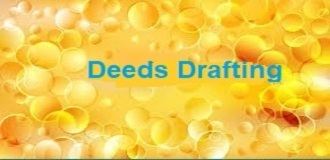
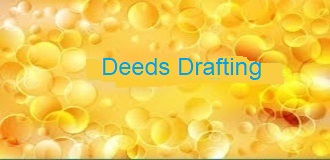
Fine Turning

Changed region(s): [[0.2424, 0.3438, 0.8788, 0.5312]]

diff --git a/Drafting.html b/Drafting.html
@@ -158,16 +158,20 @@
 
   </header>
 
-  <section>
+  <section class="bg-white mt-2 mb-1 me-2 " >
     <div class="container-fluid">
-      <div class="row h3">
-      <div class="col-md-3 fs-5 bg-white text-primary fw-normal">Legal Drafting</div>
-      <div class="col-md-3 fs-5 bg-white text-primary fw-normal">Deeds Drafting</div>
-      <div class="col-md-3 fs-5 bg-white text-primary fw-normal">Legal Documents Drafting</div>
-      <div class="col-md-3 fs-5 bg-white text-primary fw-normal">Legal Agreements <br> Drafting
-      </div>
-      </div>
-  </section>
+      <div class="row">
+            <div class="col-md-3 fs-5 text-primary fw-normal">
+            <img src="./images/Background Images plain with Tex 330x160  (7).jpg" class="" alt="..."></div>
+            <div class="col-md-3 fs-5 text-primary fw-normal">
+            <img src="./images/Background Images plain with Tex 330x160 (2).jpg" class="" alt="..."></div>
+            <div class="col-md-3 fs-5 text-primary fw-normal">
+            <img src="./images/Background Images plain with Tex 330x160 (3).jpg" class="" alt="..."></div>
+            <div class="col-md-3 fs-5 text-primary fw-normal">
+            <img src="./images/Background Images plain with Tex 330x160  (4).jpg" class="" alt="..."></div>
+        </div>
+    </div>
+</section>
 
     
 

diff --git a/About.html b/About.html
@@ -206,16 +206,20 @@
 
   </header>
 
-    <section>
-      <div class="container-fluid ">
-        <div class="row h3">
-            <div class="col-md-3 bg-primary fs-5 text-primary fw-normal">
-            <img src="./images/Background Images plain2 Edited 315x160.jpg" class="height:auto width-auto" alt="..."></div>
-            
+  <section class="bg-white mt-2 mb-1 me-2 " >
+    <div class="container-fluid">
+      <div class="row">
+            <div class="col-md-3 fs-5 text-primary fw-normal">
+            <img src="./images/Background Images plain with Tex 330x160  (7).jpg" class="" alt="..."></div>
+            <div class="col-md-3 fs-5 text-primary fw-normal">
+            <img src="./images/Background Images plain with Tex 330x160 (2).jpg" class="" alt="..."></div>
+            <div class="col-md-3 fs-5 text-primary fw-normal">
+            <img src="./images/Background Images plain with Tex 330x160 (3).jpg" class="" alt="..."></div>
+            <div class="col-md-3 fs-5 text-primary fw-normal">
+            <img src="./images/Background Images plain with Tex 330x160  (4).jpg" class="" alt="..."></div>
         </div>
-      </div>
-    </section>
-
+    </div>
+</section>
     
 
     
